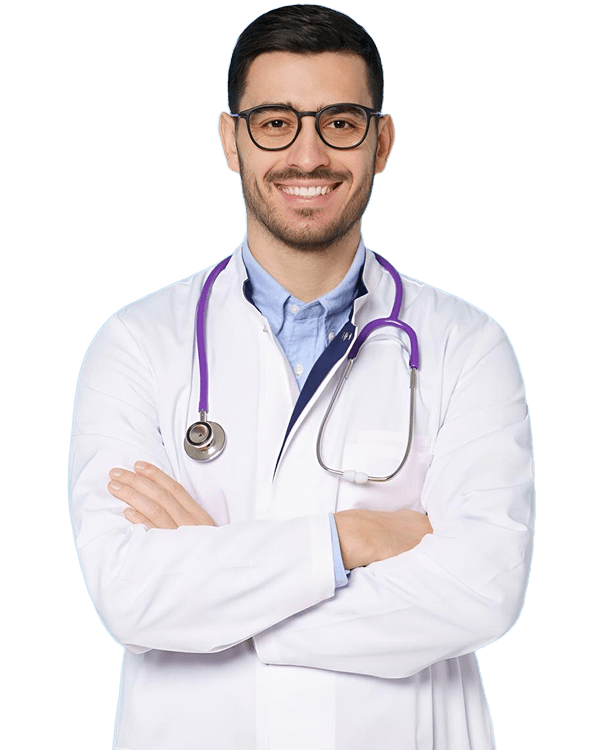
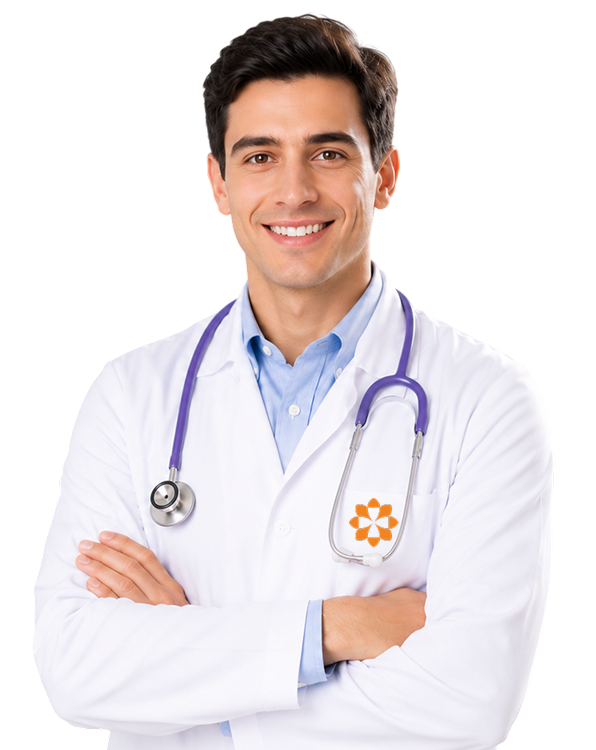
kjshj

diff --git a/assets/css/style.css b/assets/css/style.css
@@ -6280,7 +6280,7 @@ ul.widget_recent_comments,ol.widget_recent_comments,.wp-block-latest-comments{
     }
 }
 .header-layout1 .menu-area{
-    margin:32px 0px 0 0px;
+   
     padding:0px 35px 0px 35px;
     border-radius:16px;
     background-color:var(--white-color)
@@ -24257,3 +24257,7 @@ span.select2-selection.select2-selection--single:focus{
     margin-left: 0px !important;
 }
 
+
+.menu-area-style1{
+ margin:32px 0px 0 0px !important;
+}

diff --git a/index.html b/index.html
@@ -107,7 +107,7 @@
         <!-- ============================================================ -->
         <header class="th-header header-layout1 header-absolute">
             <div class="container">
-                <div class="menu-area">
+                <div class="menu-area menu-area-style1">
                     <!-- Header Top Bar -->
                     <div class="menu-top">
                         <div class="container">
